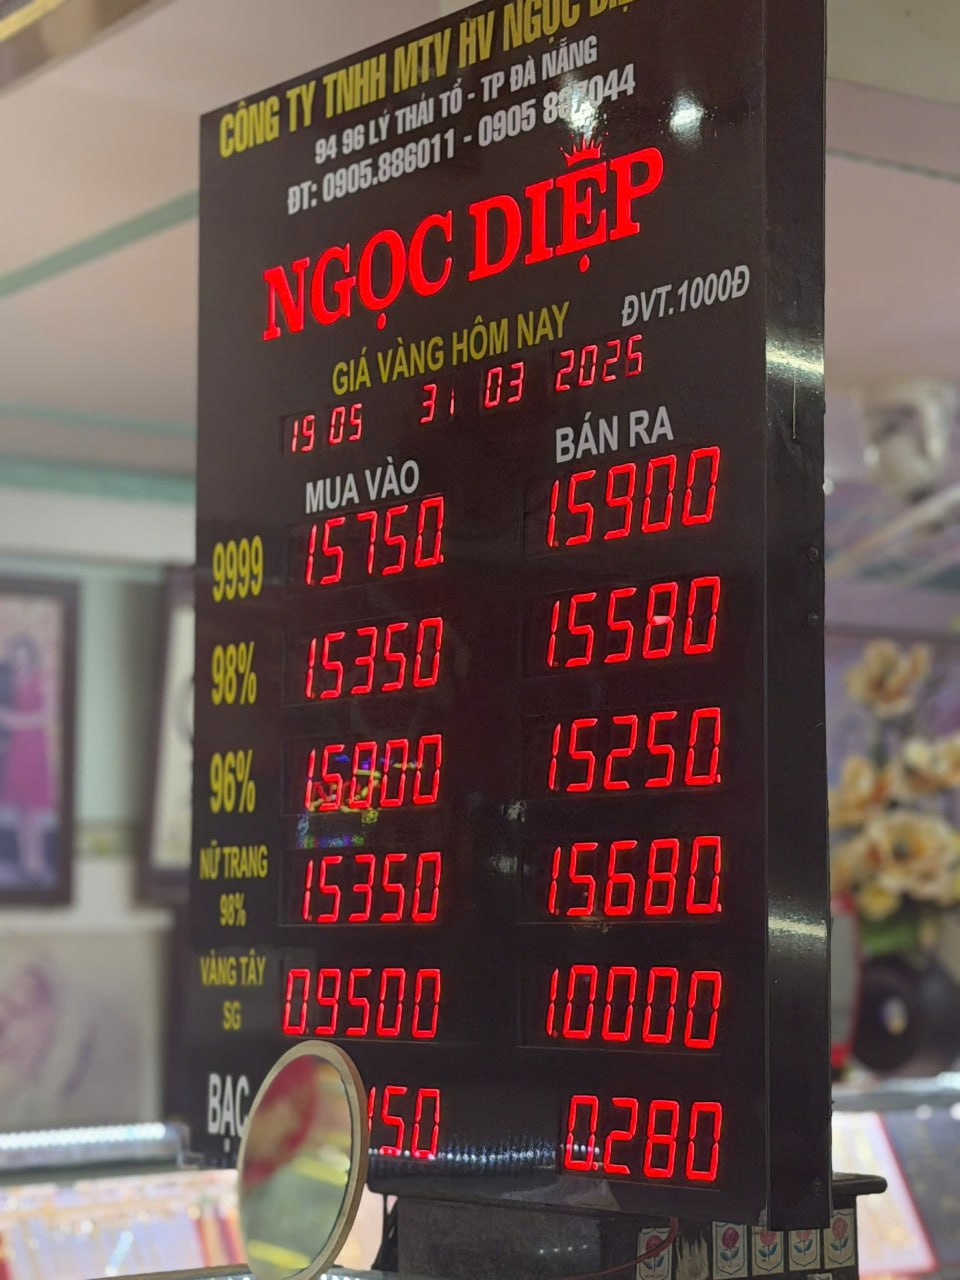
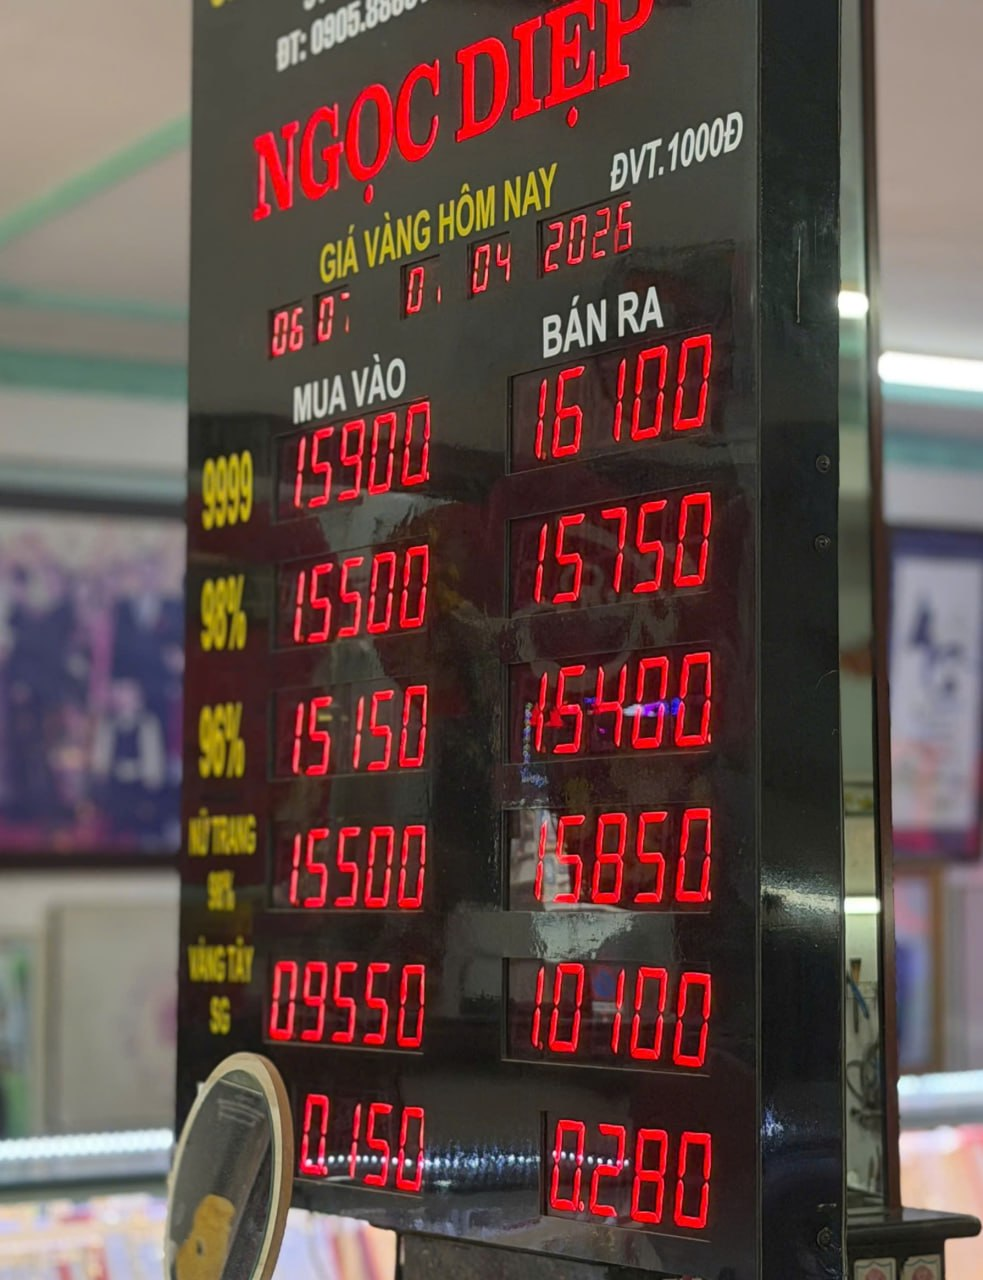
Update ngoc-diep price image (08:19)

diff --git a/app/data/goldShops.ts b/app/data/goldShops.ts
@@ -12,7 +12,7 @@ export const GOLD_SHOPS: GoldShop[] = [
     name: "Ngọc Diệp",
     location: "Đà Nẵng",
     image: "images/ngoc-diep.jpg",
-    updatedAt: "21:50",
+    updatedAt: "08:19",
   },
   {
     id: "ngoc-thinh",
